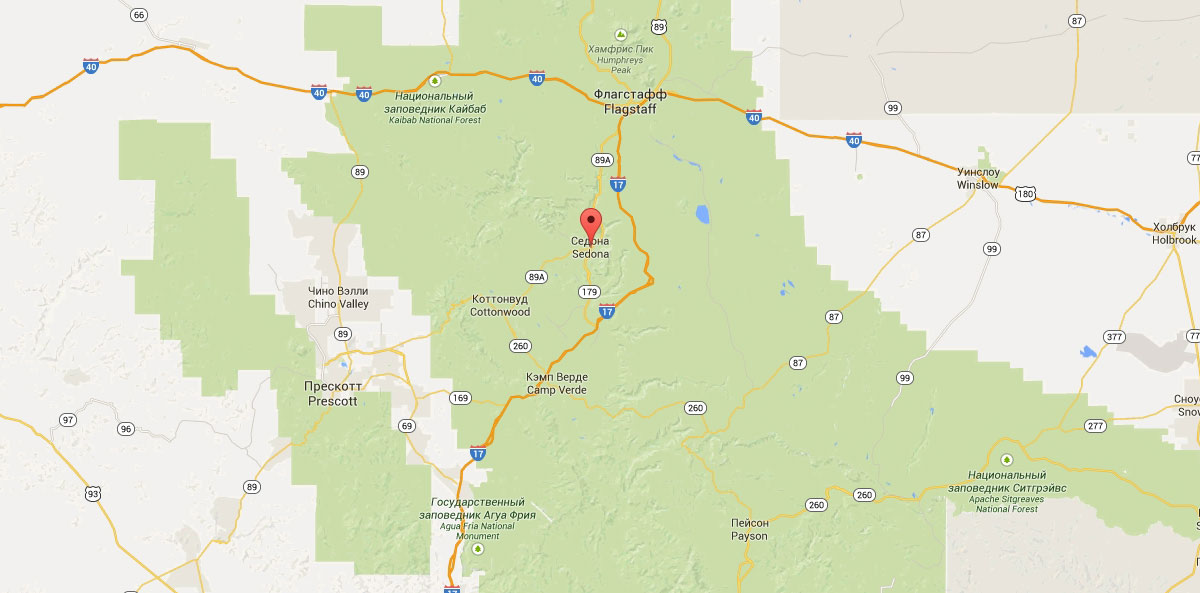
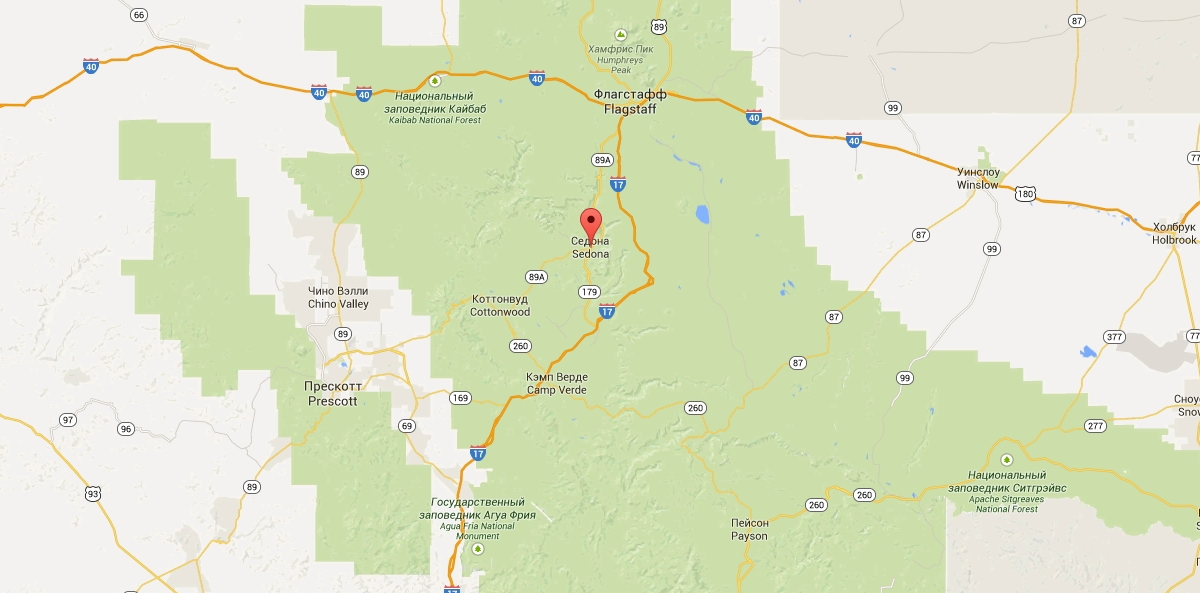
Базовая стилизация index.html (без svg)

diff --git a/index.html b/index.html
@@ -78,40 +78,46 @@
             </section>
             <section class="hotels">
                 <h2 class="hotels-headline">Заинтересовались?</h2>
-                <p>Укажите предполагаемые даты поездки, и мы покажем вам лучшие предложения гостиниц в Седоне</p>
-                <button class="button" type="button">Поиск гостиницы в Седоне</button>
+                <p>Укажите предполагаемые даты поездки,<br> и мы покажем вам лучшие предложения гостиниц в Седоне</p>
+				<button class="button" type="button">Поиск гостиницы в Седоне</button>
                 <form class="hotels-search" action="https://echo.htmlacademy.ru" method="post">
-                    <label for="input-date">Дата заезда:</label>
-                    <input id="input-date" type="text" placeholder="24 апреля 2017"> 
-                    <label for="output-date">Дата заезда:</label>
-                    <input id="output-date" type="text" placeholder="4 июля 2017"> 
-                    <label for="adult-value">Взрослые:</label>
-                    <button type="button">-</button>
-                    <input type="text" id="adult-value">
-                    <button type="button">+</button>
-                    <label for="child-value">Дети:</label>
-                    <button type="button">-</button>
-                    <input type="text" id="child-value">
-                    <button type="button">+</button>
+                    <p>
+                    	<label for="input-date">Дата заезда:</label>
+						<input id="input-date" type="text" placeholder=" 24 апреля 2017">
+					</p>
+					<p>
+						<label for="output-date">Дата заезда:</label>
+						<input id="output-date" type="text" placeholder=" 4 июля 2017">
+                    </p>
+                    <p>
+						<label for="adult-value">Взрослые:</label>
+						<button class="button-number" type="button">-</button>
+						<input class="adult-number" type="text" id="adult-value">
+						<button class="button-number" type="button">+</button>
+						<label for="child-value">Дети:</label>
+						<button class="button-number" type="button">-</button>
+						<input class="child-number" type="text" id="child-value">
+						<button class="button-number" type="button">+</button>
+					</p>
                     <button class="hotels-search-button" type="submit">Найти</button>
                 </form>
-                <img src="img/map.jpg" alt="Карта" width="1200" height="475">
+                <img src="img/map.jpg" alt="Карта" width="1200" height="593">
             </section>
         </main>
         <footer class="main-footer">
-            <p class="main-footer-hashtag">#VISITSEDONA</p>
+            <p class="main-footer-hashtag"><a href="#">#VISITSEDONA</a></p>
             <ul class="main-footer-social">
                 <li>
-                    <a href="#">Twitter</a>
+                    <a class="main-footer-social-item" href="#">Twitter</a>
                 </li>
                 <li>
-                    <a href="#">Facebook</a>
+                    <a class="main-footer-social-item" href="#">Facebook</a>
                 </li>
                 <li>
-                    <a href="#">Youtube</a>
+					<a class="main-footer-social-item" href="#">Youtube</a>
                 </li>
             </ul>
-            <span class="main-footer-copyright">WEBSITE BY</span>
+			<span class="main-footer-copyright">website by</span>
             <a href="#"><img src="img/logo_name.svg" alt="HTML Academy" width="115" height="41"></a>
         </footer>
     </div>

diff --git a/css/style.css b/css/style.css
@@ -82,6 +82,7 @@ a{
 }
 
 .hotels{
+	position: relative;
     background-color: #ffffff;
 }
 
@@ -100,6 +101,7 @@ a{
 }
 
 .button{
+	display: block;
     width: 568px;
     height: 86px;
     background-color: #766357;
@@ -109,7 +111,139 @@ a{
     color: #ffffff;
 	border: none;
     text-transform: uppercase;
+	margin: 0 auto;
+	cursor: pointer;
 }
+
+.button:hover{
+	background-color: #604e43;
+}
+
+.button:active{
+	background-color: ##503e33;
+	color: #857871;
+}
+
+.hotels-search{
+	position: absolute;
+	top: 210px;
+	left: 316px;
+	width: 568px;
+	height: 385px;
+	background-color: #ffffff;
+	box-shadow: 0 7px 15px rgba(0, 1, 1, 0.15);
+}
+
+.hotels-search p{
+	font-size: 14px;
+	line-height: 24px;
+	font-weight: 700;
+}
+
+.hotels-search input[type="text"]{
+	width: 346px;
+	height: 38px;
+	background-color: #f3f3f3;
+	font: inherit;
+	text-transform: uppercase;
+	border: none;
+}
+
+.hotels-search input[type="text"]:hover{
+	background-color: #ececec;
+}
+
+.hotels-search input[type="text"]:focus{
+	background-color: #ffffff;
+	outline: 2px solid #e5e5e5;
+}
+
+input[type="text"].adult-number,
+input[type="text"].child-number{
+	width: 36px;
+	height: 36px;
+	text-align: center;
+}
+
+input[type="text"].adult-number:hover,
+input[type="text"].child-number:hover{
+	background-color: #ececec;
+}
+
+input[type="text"].adult-number:focus,
+input[type="text"].child-number:focus{;
+	background-color: #ffffff;
+	outline: 2px solid #e5e5e5;
+}
+
+.button-number{
+	width: 38px;
+	height: 38px;
+	background-color: #f3f3f3;
+	border: none;
+	font: inherit;
+	color: #aaaaaa;
+}
+
+.button-number:hover{
+	color: #000000;
+}
+
+.button-number:active{
+	color: #82b4d3;
+}
+
+.hotels-search-button{
+	display: block;
+	width: 458px;
+	height: 58px;
+	background-color: #81b3d2;
+	font-size: 21px;
+    font-weight: 700;
+    line-height: 26px;
+	color: #ffffff;
+	text-transform: uppercase;
+	cursor: pointer;
+	border: none;
+	margin: 0 auto;
+}
+
+.hotels-search-button:hover{
+	background-color: #669ec0;
+}
+
+.hotels-search-button:active{
+	background-color: #5496bd;
+	color: #88b6d2;
+}
+
+.main-footer-hashtag a{
+	font-size: 21px;
+	line-height: 26px;
+	font-weight: 700;
+	text-transform: uppercase;
+	color: #000000;
+}
+
+.main-footer-hashtag a:hover,
+.main-footer-hashtag a:active,
+.main-footer-hashtag a:visited{
+	color: #000000;
+}
+
+.main-footer-social{
+	list-style: none;
+}
+
+.main-footer-social-item{
+	display: block;
+	width: 46px;
+	height: 48px;
+	background-color: #82b4d3;
+	text-indent: -9999px;
+	fill: #ffffff;
+}
+
 
 .visually-hidden {
 	position: absolute;
